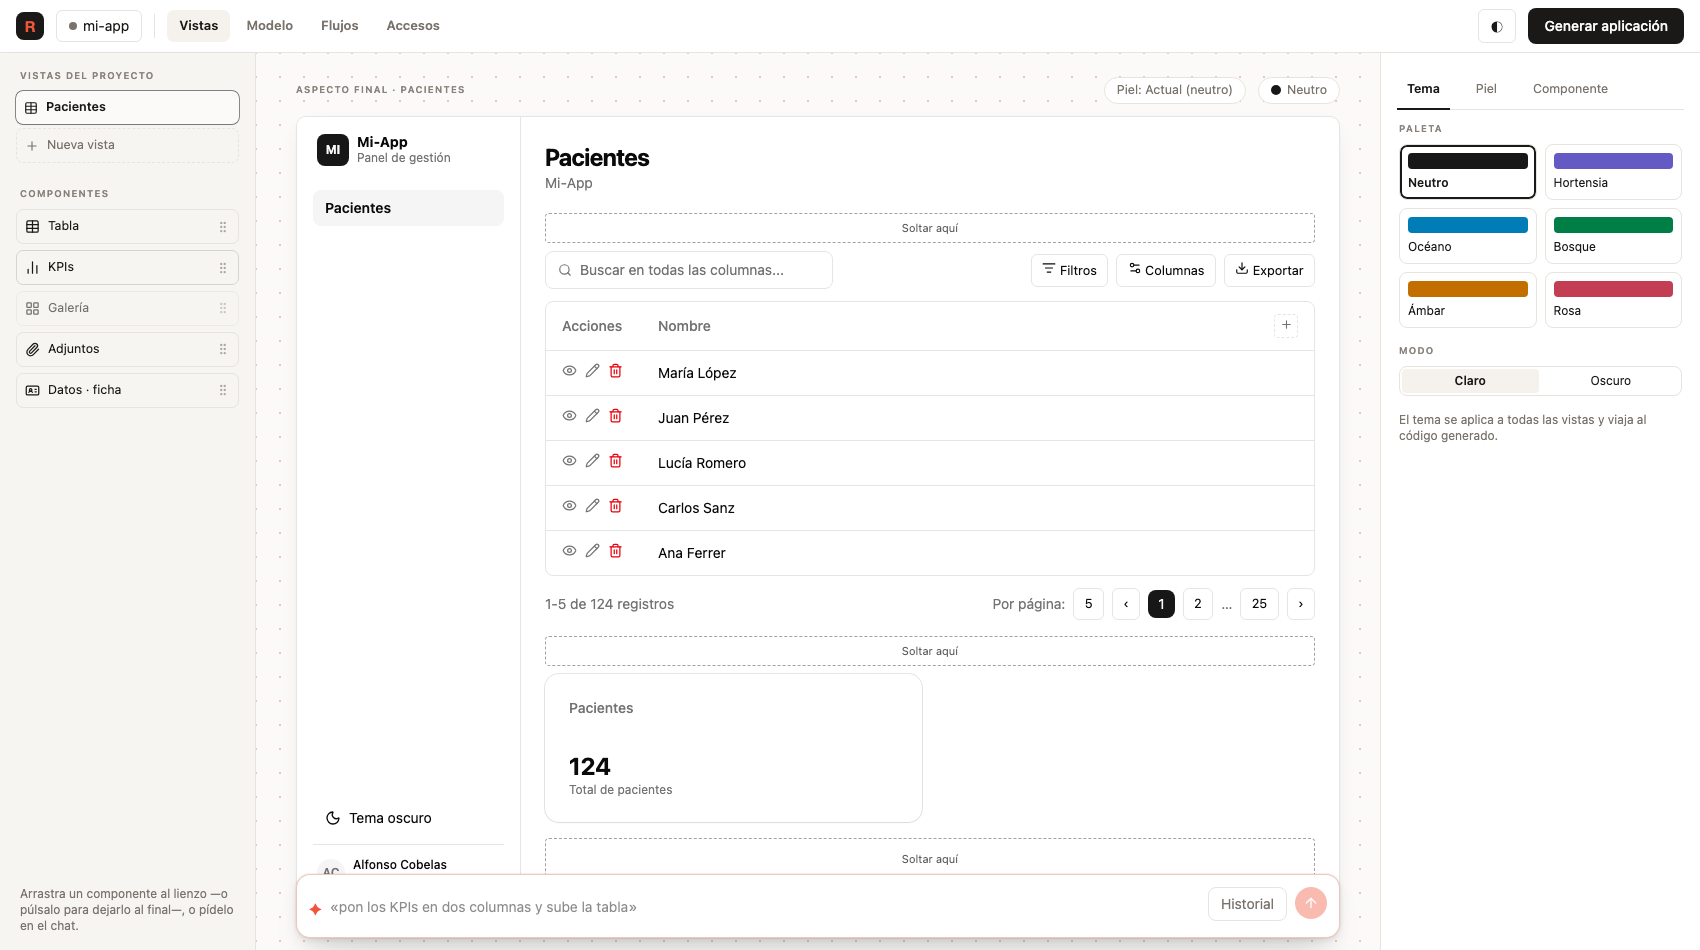
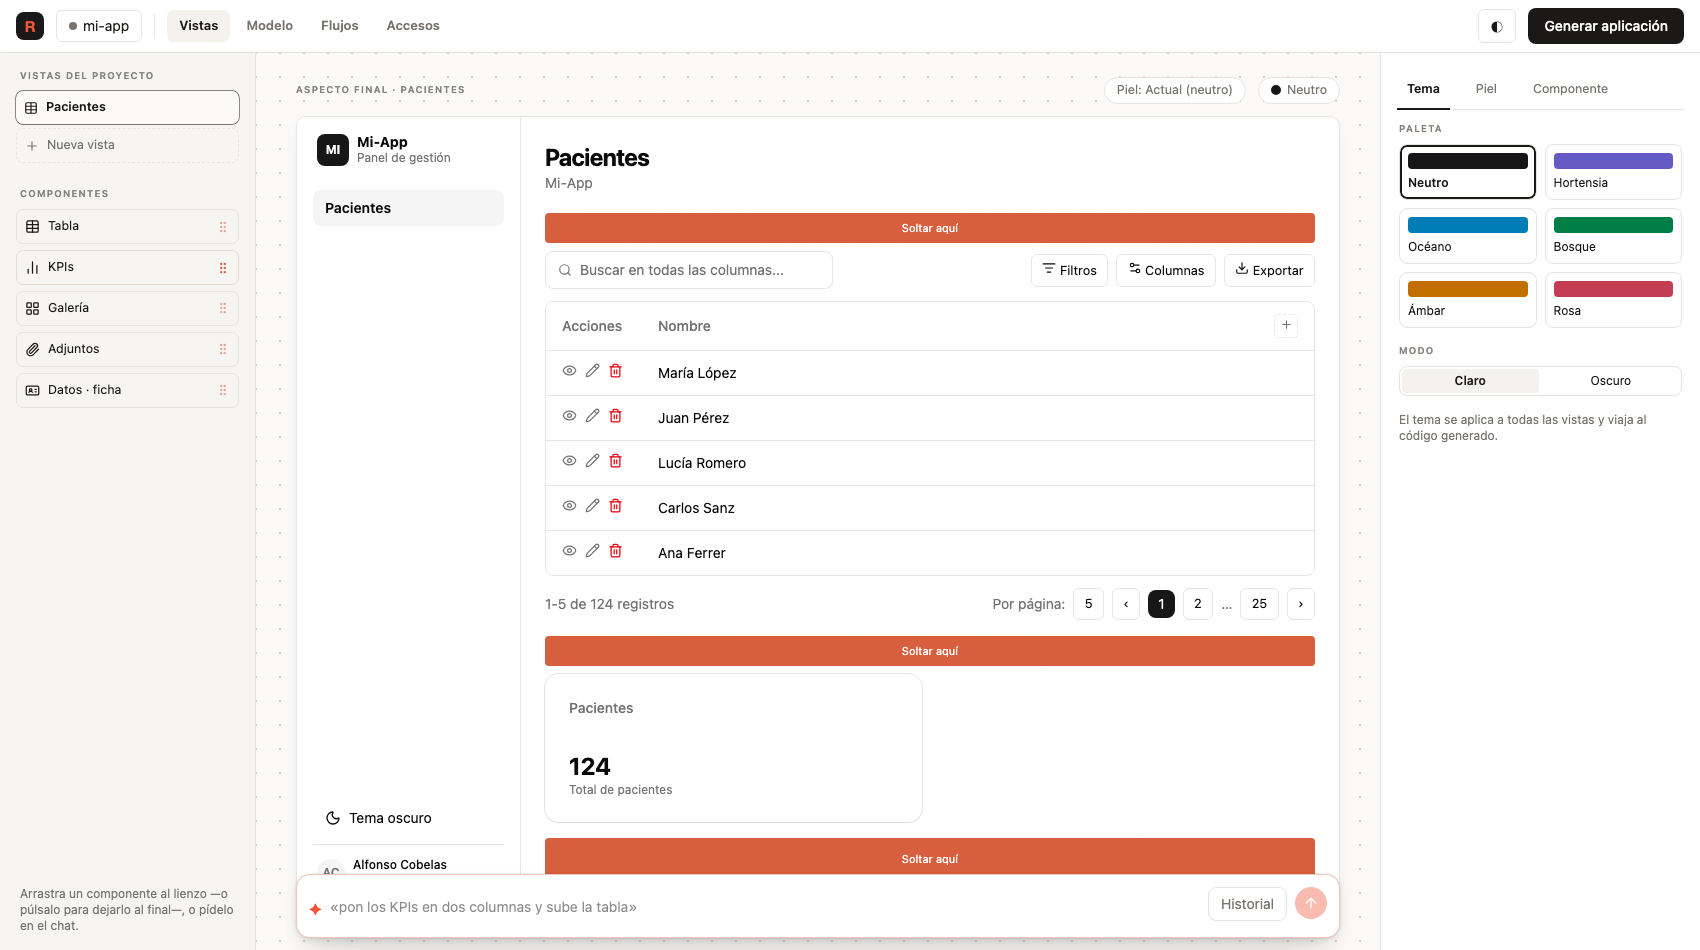
style(studio): the drop guides speak in the studio orange, not in the app primary
A guide painted with --primary borrowed the color of the app being previewed,
so the design gesture looked like part of the design. Both ends of the gesture
now use #d75f3d — the ink of the canvas grid: the grip and the component in the
air in the rail, and the guides as a solid band on the canvas.

Changed region(s): [[0.3118, 0.8547, 0.7794, 0.9463], [0.3118, 0.2137, 0.7794, 0.2747], [0.3118, 0.6716, 0.7794, 0.7021]]

diff --git a/apps/studio/libs/frontend/src/domains/studio/design/canvas-page.component.ts b/apps/studio/libs/frontend/src/domains/studio/design/canvas-page.component.ts
@@ -35,14 +35,13 @@ import { mockTotal } from './mock-data'
       @if (!current.blocks.length) {
         <div
           class="text-muted-foreground rounded-lg border border-dashed py-16 text-center transition-colors"
-          [class.border-primary]="dragging()"
-          [class.bg-accent]="dragging()"
+          [class.drop-zone]="dragging()"
           data-testid="empty-page"
           (dragover)="allowDrop($event)"
           (drop)="drop($event, 0)"
         >
           @if (dragging()) {
-            <span class="text-primary block h-full w-full text-sm font-medium" data-testid="drop-zone-0">
+            <span class="block h-full w-full text-sm font-medium" data-testid="drop-zone-0">
               Suelta aquí el componente
             </span>
           } @else {
@@ -56,7 +55,7 @@ import { mockTotal } from './mock-data'
         @for (block of current.blocks; track $index) {
           @if (dragging()) {
             <div
-              class="border-primary/40 text-primary/70 hover:bg-primary/10 hover:border-primary hover:text-primary -mb-2 w-full rounded border border-dashed py-1.5 text-center text-[11px] transition-colors"
+              class="drop-zone -mb-2 w-full rounded border border-dashed py-1.5 text-center text-[11px] transition-colors"
               [attr.data-testid]="'drop-zone-' + $index"
               (dragover)="allowDrop($event)"
               (drop)="drop($event, $index)"
@@ -165,7 +164,7 @@ import { mockTotal } from './mock-data'
         <!-- el último hueco: soltar debajo de todo -->
         @if (dragging() && current.blocks.length) {
           <div
-            class="border-primary/40 text-primary/70 hover:bg-primary/10 hover:border-primary hover:text-primary w-full rounded border border-dashed py-3 text-center text-[11px] transition-colors"
+            class="drop-zone w-full rounded border border-dashed py-3 text-center text-[11px] transition-colors"
             [attr.data-testid]="'drop-zone-' + current.blocks.length"
             (dragover)="allowDrop($event)"
             (drop)="drop($event, current.blocks.length)"
@@ -174,6 +173,23 @@ import { mockTotal } from './mock-data'
           </div>
         }
       </div>
+    }
+  `,
+  styles: `
+    /* El arrastre habla en el NARANJA del estudio (#d75f3d, el de la rejilla), no en
+       el primario de la app previsualizada: lo que se está haciendo es diseñar, y eso
+       no debe confundirse con un color que sí viaja al código emitido. */
+    .drop-zone {
+      --studio-drag: #d75f3d;
+      border-color: var(--studio-drag);
+      background-color: var(--studio-drag);
+      color: #fff;
+    }
+    /* El hueco bajo el puntero se oscurece un punto: sigue siendo el mismo naranja,
+       pero dice cuál de todos se va a llevar el bloque. */
+    .drop-zone:hover {
+      background-color: color-mix(in oklab, var(--studio-drag) 85%, black);
+      border-color: color-mix(in oklab, var(--studio-drag) 85%, black);
     }
   `
 })

diff --git a/apps/studio/libs/frontend/src/domains/studio/design/views-sidebar.component.ts b/apps/studio/libs/frontend/src/domains/studio/design/views-sidebar.component.ts
@@ -184,8 +184,8 @@ const BLOCK_TOOLS: BlockTool[] = [
         @for (tool of blockTools; track tool.kind) {
           <button
             type="button"
-            class="hover:border-foreground/40 mb-1.5 flex w-full cursor-grab items-center gap-2 studio-ui rounded-[7px] border px-2 py-2 text-left transition-colors active:cursor-grabbing disabled:cursor-not-allowed disabled:opacity-40"
-            [class.opacity-60]="drag.kind() === tool.kind"
+            class="block-tool mb-1.5 flex w-full cursor-grab items-center gap-2 studio-ui rounded-[7px] border px-2 py-2 text-left transition-colors active:cursor-grabbing disabled:cursor-not-allowed disabled:opacity-40"
+            [class.dragging]="drag.kind() === tool.kind"
             [disabled]="!ready()"
             [attr.draggable]="ready() ? 'true' : null"
             [attr.data-testid]="'block-tool-' + tool.kind"
@@ -196,8 +196,8 @@ const BLOCK_TOOLS: BlockTool[] = [
           >
             <ng-icon [name]="tool.icon" size="15" />
             <span class="flex-1">{{ tool.label }}</span>
-            <!-- el asidero: la seña de que esto se arrastra -->
-            <ng-icon class="text-muted-foreground/60" name="lucideGripVertical" size="14" />
+            <!-- el asidero: la seña de que esto se arrastra, en el naranja del arrastre -->
+            <ng-icon class="grip" name="lucideGripVertical" size="14" />
           </button>
         }
       </section>
@@ -206,6 +206,28 @@ const BLOCK_TOOLS: BlockTool[] = [
         Arrastra un componente al lienzo —o púlsalo para dejarlo al final—, o pídelo en el chat.
       </p>
     </aside>
+  `,
+  styles: `
+    /* Mismo naranja que la rejilla del lienzo y que las guías de caída: el gesto
+       de arrastrar se reconoce por el color de punta a punta. */
+    .block-tool {
+      --studio-drag: #d75f3d;
+    }
+    .block-tool:not(:disabled):hover {
+      border-color: color-mix(in oklab, var(--studio-drag) 55%, transparent);
+    }
+    .block-tool .grip {
+      color: color-mix(in oklab, var(--studio-drag) 55%, transparent);
+    }
+    .block-tool:not(:disabled):hover .grip {
+      color: var(--studio-drag);
+    }
+    /* El que está en el aire se queda marcado en el raíl mientras dura el gesto. */
+    .block-tool.dragging {
+      border-color: var(--studio-drag);
+      background-color: color-mix(in oklab, var(--studio-drag) 8%, transparent);
+      color: var(--studio-drag);
+    }
   `
 })
 export class ViewsSidebarComponent {

diff --git a/apps/studio/tools/smoke-drag.ts b/apps/studio/tools/smoke-drag.ts
@@ -73,6 +73,15 @@ async function main(): Promise<void> {
 
   await page.screenshot({ path: 'e2e-35-drag-drop.png' })
 
+  // una vista en blanco: el hueco es la propia vista vacía
+  await page.getByTestId('tool-new-view').click()
+  await page.getByTestId('preset-blank').click()
+  await page.getByTestId('new-page-title').fill('Portada')
+  await page.getByTestId('new-page-ok').click()
+
+  await dragBlockOnto(page, 'block-tool-table', 'drop-zone-0', 'e2e-36-drag-vista-vacia.png')
+  await check('la vista vacía admite el primer bloque', async () => (await blocks(page)).join() === 'table')
+
   if (errors.length) console.log('errores de página:', errors)
   await browser.close()
   if (failures.length || errors.length) process.exit(1)
